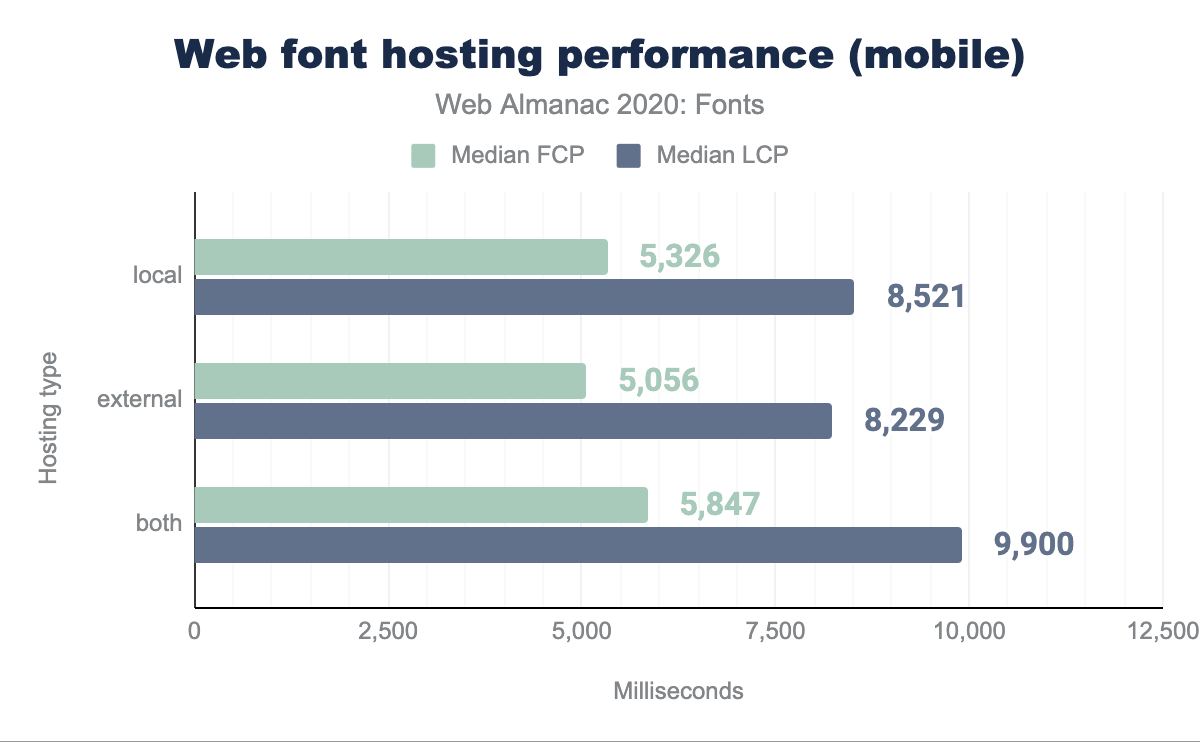
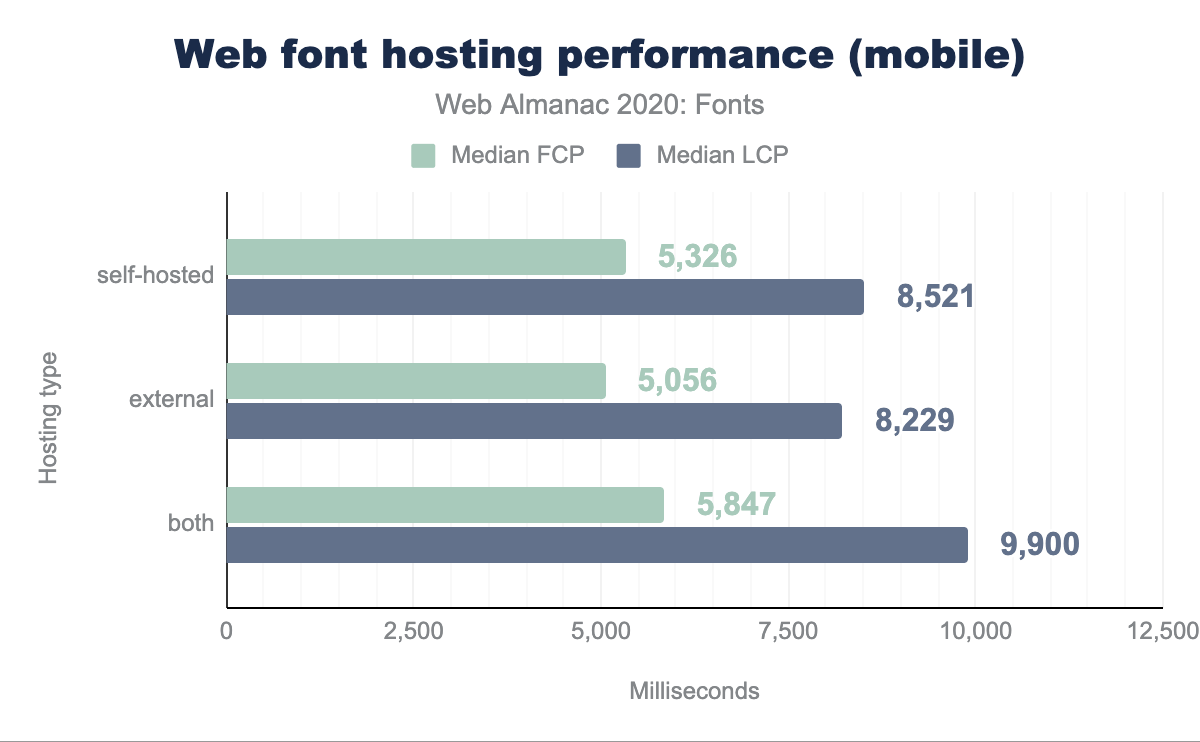
Further edits

diff --git a/src/content/en/2020/fonts.md b/src/content/en/2020/fonts.md
@@ -12,22 +12,17 @@ raphlinus_bio: Raph Levien has been working with fonts for over 35 years, includ
 discuss: 2040
 results: https://docs.google.com/spreadsheets/d/1jjvZqYay5KmTle4atzFWqtbkz9ohw25KFmNtCS-7n3s/
 queries: 04_Fonts
-#featured_quote: TODO
-#featured_stat_1: TODO
-#featured_stat_label_1: TODO
-#featured_stat_2: TODO
-#featured_stat_label_2: TODO
-#featured_stat_3: TODO
-#featured_stat_label_3: TODO
-unedited: true
+featured_quote: Web font technology is fairly mature, with incremental improvements in compression and other technical improvements, but new features are arriving. Browser support for variable fonts has become quite good, and this is the feature that's seen the most growth in the previous year.
+featured_stat_1: 70.3%
+featured_stat_label_1: Popularity of Google Fonts amongst font-hosting services
+featured_stat_2: 10.3%
+featured_stat_label_2: Usage of <code>font-display</code> swap
+featured_stat_3: 11.0%
+featured_stat_label_3: Usage of Variable Fonts on mobile sites
 ---
 ## Introduction
 
 Text is at the heart of most web sites, and typography is the art of presenting that text in a way that's visually appealing and effective. Creating good typography requires choosing the appropriate fonts and designers have a tremendous range of web fonts to choose from. As with all resources, there are performance and compatibility concerns but, done right, the benefit is well worth it. In this chapter, we'll dive into data to show how web fonts are being used, and in particular how they're optimized.
-
-Web font technology is fairly mature, with incremental improvements in compression and other technical improvements, but new features are arriving. Browser support for variable fonts has become quite good, and this is the feature that's seen the most growth in the previous year.
-
-{# TODO (authors) - what do you think about moving this sentence to the conclusion? #}
 
 ## Where are web fonts being used?
 
@@ -73,6 +68,14 @@ There's a great thread on [web font usage by country](https://discuss.httparchiv
 
 ### Serving with a service
 
+{{ figure_markup(
+  caption="Popularity of Google Fonts amongst font-hosting services.",
+  content="70.3%",
+  classes="big-number",
+  sheets_gid="1925210751",
+  sql_file="04_05.web_font_usage_breakdown_with_fcp.sql"
+) }}
+
 It likely comes as no surprise that [Google Fonts](https://fonts.google.com/) remains by far the most popular platform, but the percentage use has actually dropped almost 5% from 2019 to about 70%. [Adobe Fonts](https://fonts.adobe.com/) (formerly Typekit) has dropped about 3% as well, but [Bootstrap usage](https://getbootstrap.com/) has grown from about 3% to over 6% (in aggregate from several providers). It is worth noting that the largest provider for Bootstrap ([BootstrapCDN](https://www.bootstrapcdn.com/)) also provides icon fonts from [Font Awesome](https://fontawesome.com/), so it may be that it is not Bootstrap itself but rather older versions also referencing icon font files that is behind the rise in that source data.
 
 Another surprise in the data is the rise in fonts being served by [Shopify](https://www.shopify.com/). Growing from roughly 1.1% in 2019 to about 4% in 2020, there has clearly been a significant uptick in usage of web fonts by sites hosted on that platform. It is unclear if that is due to that service offering more fonts that they host on their CDN, if it is growth in use of their platform, or both. However, the increase in usage of both Shopify and Bootstrap represent the largest amount of growth other than Google Fonts, making it a very noticeable data point.
@@ -106,14 +109,14 @@ When viewing commercial services such as Adobe (`use.typekit.net`) or Monotype (
 
 #### Self-hosting isn't always better
 
-Self-hosting fonts on the same domain as the website can be faster, as [we dsicovered for this very website](https://www.tunetheweb.com/blog/should-you-self-host-google-fonts/), however this is not always the case as the data shows.
+Self-hosting fonts on the same domain as the website can be faster, as [we discovered for this very website](https://www.tunetheweb.com/blog/should-you-self-host-google-fonts/), however this is not always the case as the data shows.
 
 {# TODO Authors - Suggested different wording here, and moved `local` down to below. Let me knwo your thoughts. Particularly as I inserted a reference to my own site here which is a bit presumptious of me :-) but it is about the Web Almanac so think it fits. #}
 
 {{ figure_markup(
   image="fonts-web-hosting-performance-desktop.png",
   caption="Web font hosting performance, desktop.",
-  description="A bar chart showing the desktop median first content paint and last content paint (in milliseconds) for three different web font hosting strategies: local is 2,426 milliseconds for median FCP and 4,176 for median LCP, external is 2,034 and 3,671 respectively, and both is 2,663 and 5,044 milliseconds respectively.",
+  description="A bar chart showing the desktop median First Contentful Paint and Last Contentful Paint (in milliseconds) for three different web font hosting strategies: local is 2,426 milliseconds for median FCP and 4,176 for median LCP, external is 2,034 and 3,671 respectively, and both is 2,663 and 5,044 milliseconds respectively.",
   chart_url="https://docs.google.com/spreadsheets/d/e/2PACX-1vT2Q4hcDGGdclJH2ym0Pp_f8JWvYur_OQFQNkuScJyO7_ZCR1KPZsewL-mEZhxcuRFcde_Mxio8z_8P/pubchart?oid=506816237&format=interactive",
   sheets_gid="838326315",
   sql_file="04_04.self_hosted_vs_hosted_with_fcp.sql"
@@ -123,7 +126,7 @@ Self-hosting fonts on the same domain as the website can be faster, as [we dsico
 {{ figure_markup(
   image="fonts-web-hosting-performance-mobile.png",
   caption="Web font hosting performance, mobile.",
-  description="A bar chart showing the mobile median first content paint and last content paint (in milliseconds) for three different web font hosting strategies: local is 5,326 milliseconds for median FCP and 8,521 for median LCP,  external is 5,056 and 8,229 respectively, and both is 5,847 and 9,900 milliseconds respectively.",
+  description="A bar chart showing the mobile median First Contentful Paint and Last Contentful Paint (in milliseconds) for three different web font hosting strategies: local is 5,326 milliseconds for median FCP and 8,521 for median LCP,  external is 5,056 and 8,229 respectively, and both is 5,847 and 9,900 milliseconds respectively.",
   chart_url="https://docs.google.com/spreadsheets/d/e/2PACX-1vT2Q4hcDGGdclJH2ym0Pp_f8JWvYur_OQFQNkuScJyO7_ZCR1KPZsewL-mEZhxcuRFcde_Mxio8z_8P/pubchart?oid=1955186104&format=interactive",
   sheets_gid="838326315",
   sql_file="04_04.self_hosted_vs_hosted_with_fcp.sql"
@@ -154,7 +157,7 @@ The [`font-display`](https://developer.mozilla.org/en-US/docs/Web/CSS/@font-face
   )
 }}
 
-We can analyze the effect of these settings on first contentful paint and largest contentful paint. Not surprisingly, the `optional` setting has a major effect on largest contentful paint. There is also an effect on first contentful paint, but that might be more correlation than causation, as all of the modes except for `block` display *some* text after an "extremely small block period."#}
+We can analyze the effect of these settings on First Contentful Paint and Largest Contentful Paint. Not surprisingly, the `optional` setting has a major effect on Largest Contentful Paint. There is also an effect on First Contentful Paint, but that might be more correlation than causation, as all of the modes except for `block` display *some* text after an "extremely small block period."#}
 
 {{ figure_markup(
   image="fonts-font-display-performance-desktop.png",
@@ -192,8 +195,6 @@ Ordinarily, fetching web fonts is a two-stage process. The first stage is loadin
 
 This is especially relevant for hosted font solutions. Only after discovering the font is needed, can the connection to that server begin, which further breaks down into the DNS query for the server, and actually initiating a connection (which, these days, usually involves an HTTPS cryptographic handshake).
 
-Adding a [resource hint element](https://www.w3.org/TR/resource-hints/#resource-hints) in the HTML starts that second connection earlier. The various resource hint settings control how far that gets before having the URL for the actual font resource. The most common (at about 32% of web pages) is `dns-prefetch`, even though in most cases there are better choices.
-
 {{ figure_markup(
   image="fonts-resource-hints-use.png",
   caption="resource-hints use on fonts.",
@@ -203,6 +204,10 @@ Adding a [resource hint element](https://www.w3.org/TR/resource-hints/#resource-
   sql_file="04_07.font_resource_hints_with_fcp.sql"
   )
 }}
+
+Adding a [resource hint element](https://www.w3.org/TR/resource-hints/#resource-hints) in the HTML starts that second connection earlier. The various resource hint settings control how far that gets before having the URL for the actual font resource. The most common (at about 32% of web pages) is `dns-prefetch`, even though in most cases there are better choices.
+
+Next we will look at whether these resource hints have an impact on page performance.
 
 {{ figure_markup(
   image="fonts-resource-hints-performance-desktop.png",
@@ -312,7 +317,17 @@ Lots more information about color fonts, including examples, are available at [c
 
 ## Variable fonts
 
-Variable fonts are certainly one of the biggest stories this year. They're seen in 8.37% of desktop pages, and 13.84% of mobile. That's up from an average of 1.8% last year, a huge growth factor. It is not hard to see why their popularity is increasing – they offer more design flexibility, and also potentially smaller binary font sizes, especially if multiple styles of the same font are used on the same page.
+{{ figure_markup(
+  caption="Usage of variable fonts on mobile.",
+  content="11.00%",
+  classes="big-number",
+  sheets_gid="91894176",
+  sql_file="04_14a.variable_font_comparison_fcp.sql"
+) }}
+
+Variable fonts are certainly one of the biggest stories this year. They're seen in 10.54% of desktop pages, and 11.00% of mobile. That's up from an average of 1.8% last year, a huge growth factor. It is not hard to see why their popularity is increasing – they offer more design flexibility, and also potentially smaller binary font sizes, especially if multiple styles of the same font are used on the same page.
+
+{# That's huge usage! Any ideas what's driven it? It would appear no variable font has any where near that usage so how come total usage is so high? Has any particular service or platform turned this on by default? #}
 
 {# TODO - authors Should we add a paragraph or bullet list explaing the common font axis and what they mean before launching into their usage? What is difference between wght and wdth? And between slnt and ital? Web Almanac readers may come here from pother chapters and not be familiar with these terms. Plus I am a little familair and don't know these answers! #}
 
@@ -336,7 +351,9 @@ There are many potential benefits to using variable fonts. While each included a
 
 Adopting and leveraging variable fonts for more varied design (by using more of the available range of weights and widths) is another. Using a width axis could improve line wrapping on smaller screens, especially with larger headings and longer languages. With the rise in adoption of alternate light modes, making small adjustments to font-weight when switching modes can improve legibility (see [variablefonts.io](https://variablefonts.io) for more on usage and implementation).
 
-## Towards the future
+## Conclusion
+
+Web font technology is fairly mature, with incremental improvements in compression and other technical improvements, but new features are arriving. Browser support for variable fonts has become quite good, and this is the feature that's seen the most growth in the previous year.
 
 The performance landscape is changing somewhat, as the advent of [cache partitioning](https://developers.google.com/web/updates/2020/10/http-cache-partitioning) reduces the performance benefit from sharing the cache of CDN font resources across multiple sites. The trend of hosting more font assets on the same domain as the site, rather than using a CDN, will probably continue. Even so, services such as Google Fonts are highly optimized, and best practices such as use of `swap` and `preconnect` mitigate much of the impact of the additional HTTP connection.
 
